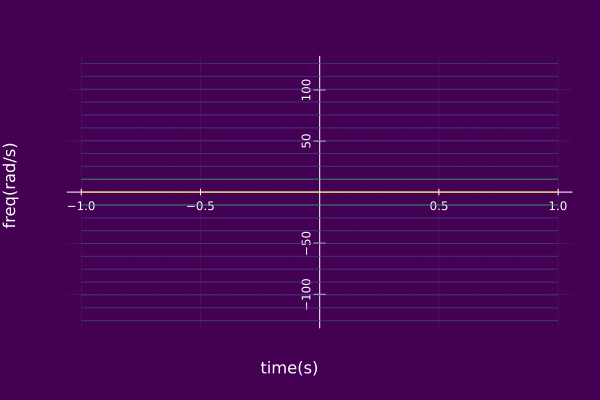
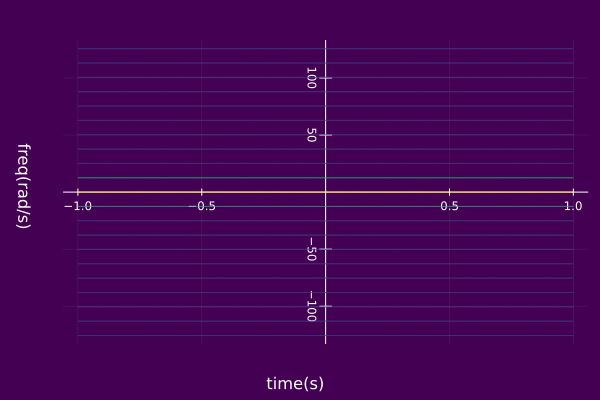
fixed fourier series documents code for plotting

diff --git a/docs/src/basicModels/Fourier.md b/docs/src/basicModels/Fourier.md
@@ -62,7 +62,7 @@ aₖ(k) = 1/T
 kInds = -10:10
 𝑆 = fourierSeries(T, aₖ, kInds)
 z = AMFMmodel(𝑆)
-plot(𝑆; timeaxis=-1.0:0.001:1.0)
+plot(𝑆, timeaxis=-1.0:0.001:1.0)
 ```
 ![](https://raw.githubusercontent.com/NMSU-ISA/ISA/master/docs/src/assets/IS_exFourier2.png)
 
@@ -73,11 +73,8 @@ aₖ(k) = 1/T
 kInds = -10:10
 𝑆 = fourierSeries(T, aₖ, kInds)
 z = AMFMmodel(𝑆)
-plot(𝑆; timeaxis=-1.0:0.001:1.0)
-plot!( camera=(0,90),
-       zlabel="", zticks=:false,
-       left_margin=15Plots.mm, margin=5Plots.mm,
-       yrotation = 90, ymirror=true)
+plot(𝑆, timeaxis=-1.0:0.001:1.0, view="TF",
+     left_margin=15Plots.mm, margin=5Plots.mm)
 ```
 ![](https://raw.githubusercontent.com/NMSU-ISA/ISA/master/docs/src/assets/IS_exFourier3.png)
 
@@ -120,7 +117,7 @@ aₖ(k) = ifelse( k==0, 1/2, sin(k*π/2)/(k*π) )
 kInds = -10:10
 𝑆 = fourierSeries(T, aₖ, kInds)
 z = AMFMmodel(𝑆)
-plot(𝑆; timeaxis=-1.0:0.001:1.0)
+plot(𝑆, timeaxis=-1.0:0.001:1.0)
 ```
 ![](https://raw.githubusercontent.com/NMSU-ISA/ISA/master/docs/src/assets/IS_exFourier5.png)
 
@@ -132,7 +129,7 @@ aₖ(k) = ifelse( k==0, 1/2, sin(k*π/2)/(k*π) )
 kInds = -10:10
 𝑆 = fourierSeries(T, aₖ, kInds)
 z = AMFMmodel(𝑆)
-plot(𝑆; timeaxis=-1.0:0.001:1.0)
+plot(𝑆, timeaxis=-1.0:0.001:1.0)
 plot!( camera=(0,90),
        zlabel="", zticks=:false,
        left_margin=15Plots.mm, margin=5Plots.mm,
@@ -190,7 +187,7 @@ exp(-j*k*2π)+exp(j*4π/3)*exp(-j*k*4π/3))/(j*k*2π) )
 kInds = -150:150
 𝑆 = fourierSeries(T, aₖ, kInds)
 z = AMFMmodel(𝑆)
-plot(𝑆; timeaxis=-1.0:0.001:1.0)
+plot(𝑆, timeaxis=-1.0:0.001:1.0)
 ```
 ![](https://raw.githubusercontent.com/NMSU-ISA/ISA/master/docs/src/assets/IS_exFourier8.png)
 
@@ -205,7 +202,7 @@ exp(-j*k*2π)+exp(j*4π/3)*exp(-j*k*4π/3))/(j*k*2π) )
 kInds = -150:150
 𝑆 = fourierSeries(T, aₖ, kInds)
 z = AMFMmodel(𝑆)
-plot(𝑆; timeaxis=-1.0:0.001:1.0)
+plot(𝑆, timeaxis=-1.0:0.001:1.0)
 plot!( camera=(0,90),
        zlabel="", zticks=:false,
        left_margin=15Plots.mm, margin=5Plots.mm,
